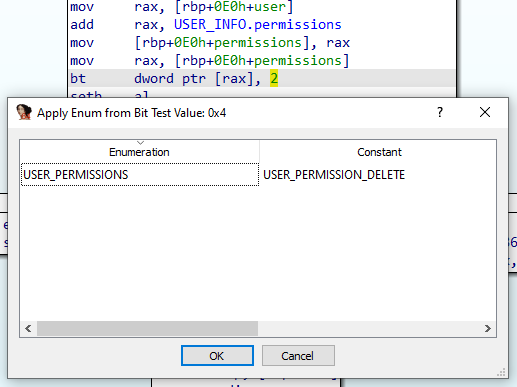
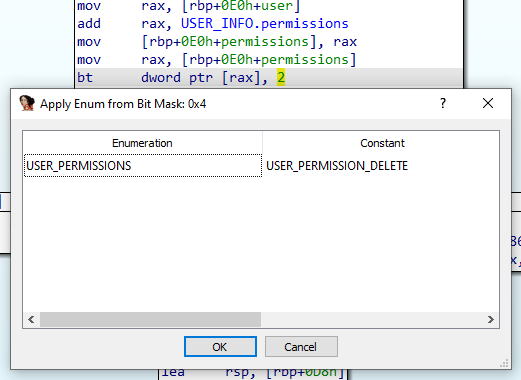
Renamed some stuff for clarity

Changed region(s): [[0.0, 0.0, 1.0, 1.0]]

diff --git a/bit_tester/ks_bit_tester_plugin.py b/bit_tester/ks_bit_tester_plugin.py
@@ -11,12 +11,12 @@ import idc
 
 from PyQt5 import QtCore, QtGui, QtWidgets
 
-ACTION_NAME = "Enum (bit flag)"
-PLUGIN_DISPLAY_NAME = "Enum from Bit Flag"
-PLUGIN_HELP = "Searches imported enumerations for a bit flag which match the bit test value"
+ACTION_NAME = "Enum (bit test)"
+PLUGIN_DISPLAY_NAME = "Enum from Bit Test"
+PLUGIN_HELP = "Searches imported enumerations using a bit mask generated from a bit test value"
 PLUGIN_SHORTCUT = "Alt+Shift+M"
-PLUGIN_COMMENT = "Apply an enumeration from a bit flag location"
-PLUGIN_MENU_PATH = "Edit/Operand type/Enum member..."
+PLUGIN_COMMENT = "Apply an enumeration from a bit test"
+PLUGIN_MENU_PATH = "Edit/Operand type/Enum member..."
 LOG_LEVEL = logging.ERROR
 
 class ApplyEnumHandler(idaapi.action_handler_t):
@@ -231,9 +231,9 @@ class Ui_BitTesterDialog(object):
     def retranslateUi(self, BitTesterDialog):
         _translate = QtCore.QCoreApplication.translate
         if self.valueStr:
-            BitTesterDialog.setWindowTitle(_translate("BitTesterDialog", f"Apply Enum from Bit Test Value: {self.valueStr}"))
+            BitTesterDialog.setWindowTitle(_translate("BitTesterDialog", f"Apply Enum from Bit Mask: {self.valueStr}"))
         else:
-            BitTesterDialog.setWindowTitle(_translate("BitTesterDialog", f"Apply Enum from Bit Test Value"))
+            BitTesterDialog.setWindowTitle(_translate("BitTesterDialog", f"Apply Enum from Bit Mask"))
         self.tableWidget.setSortingEnabled(True)
         item = self.tableWidget.horizontalHeaderItem(0)
         item.setText(_translate("BitTesterDialog", "Enumeration"))

diff --git a/bit_tester/README.md b/bit_tester/README.md
@@ -10,6 +10,9 @@ When you see a bit test, select the immediate/line and press `Alt+Shift+M`. If t
 
 # Creating an IDA Pro Plugin for Bit Tests
 
+- [Installation](#installation)
+- [Usage](#usage)
+- [Creating an IDA Pro Plugin for Bit Tests](#creating-an-ida-pro-plugin-for-bit-tests)
 - [Problem](#problem)
 - [Background](#background)
 - [Implementation](#implementation)
@@ -303,7 +306,7 @@ QWidget->geometry->Width: 420<br>
 QWidget->geometry->Height: 300<br>
 QWidget->sizePolicy->Horizontal Policy: Ignored<br>
 QWidget->sizePolicy->Vertical Policy: Ignored<br>
-QWidget->windowTitle: Apply Enum from Bit Test Value<br>
+QWidget->windowTitle: Apply Enum from Bit Mask<br>
 QDialog->sizeGripEnabled: true<br>
 
 **QDialogButtonBox**<br>
@@ -461,9 +464,9 @@ We add an `__init__` method to the UI component to create a logger, and also pas
 
 ```python
    if self.valueStr:
-        BitTesterDialog.setWindowTitle(_translate("BitTesterDialog", f"Apply Enum from Bit Test Value: {self.valueStr}"))
+        BitTesterDialog.setWindowTitle(_translate("BitTesterDialog", f"Apply Enum from Bit Mask: {self.valueStr}"))
     else:
-        BitTesterDialog.setWindowTitle(_translate("BitTesterDialog", f"Apply Enum from Bit Test Value"))
+        BitTesterDialog.setWindowTitle(_translate("BitTesterDialog", f"Apply Enum from Bit Mask"))
 ```
 
 Why would we be invoked without a value? If the user isn't on a line that has a valid immediate value, we still pop the dialog to behave like the built-in enumeration plugin (although the *\<NEW\>* functionality has yet to be implemented!).
@@ -510,11 +513,11 @@ We need a way for the user to pop our dialog box and choose an enumeration. For 
 
 ```python
 
-ACTION_NAME = "Enum (bit flag)"
-PLUGIN_DISPLAY_NAME = "Enum from Bit Flag"
-PLUGIN_HELP = "Searches imported enumerations for a bit flag which match the bit test value"
+ACTION_NAME = "Enum (bit test)"
+PLUGIN_DISPLAY_NAME = "Enum from Bit Test"
+PLUGIN_HELP = "Searches imported enumerations using a bit mask generated from a bit test value"
 PLUGIN_SHORTCUT = "Alt+Shift+M"
-PLUGIN_COMMENT = "Apply an enumeration from a bit flag location"
+PLUGIN_COMMENT = "Apply an enumeration from a bit test"
 PLUGIN_MENU_PATH = "Edit/Operand type/Enum member..."
 
 class bit_tester_plugin_t(idaapi.plugin_t):
